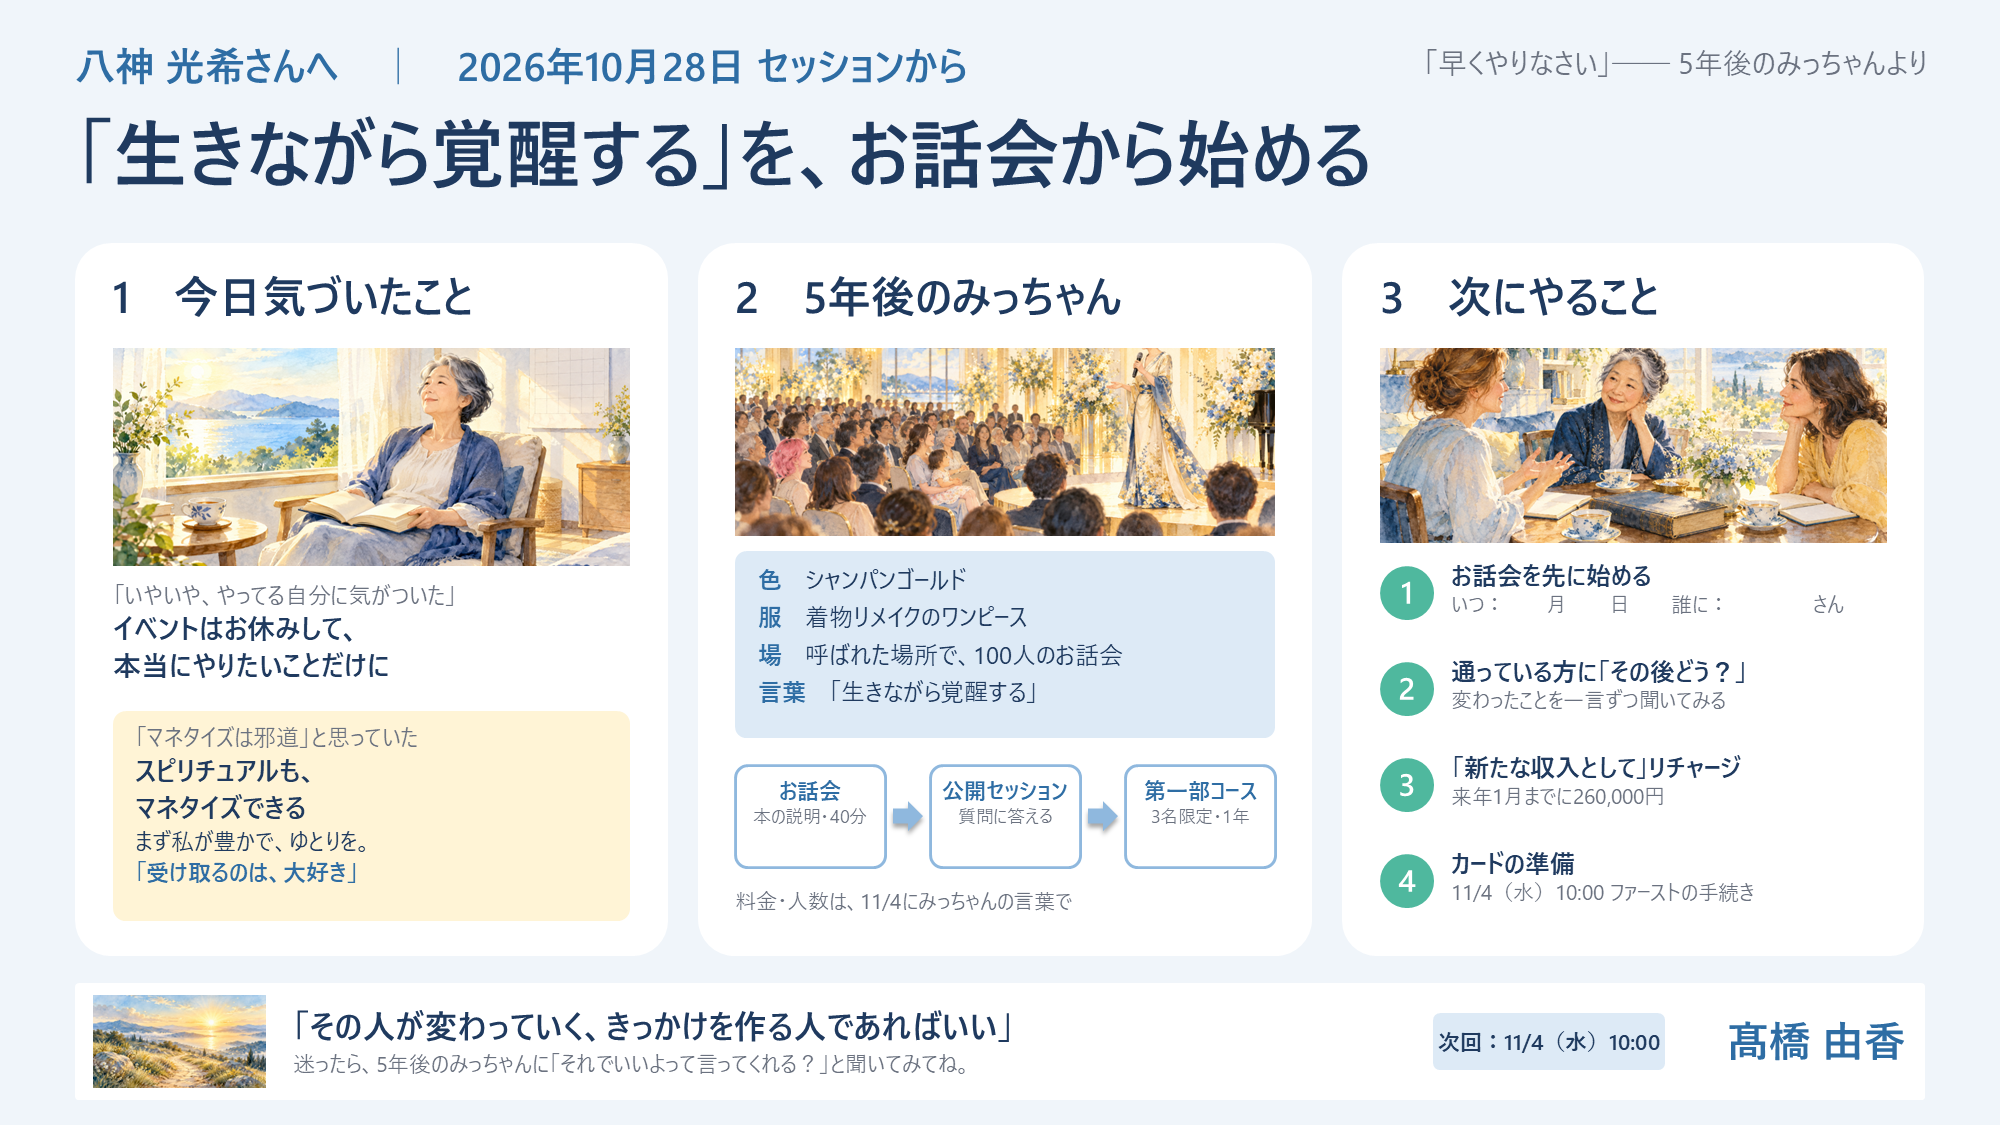
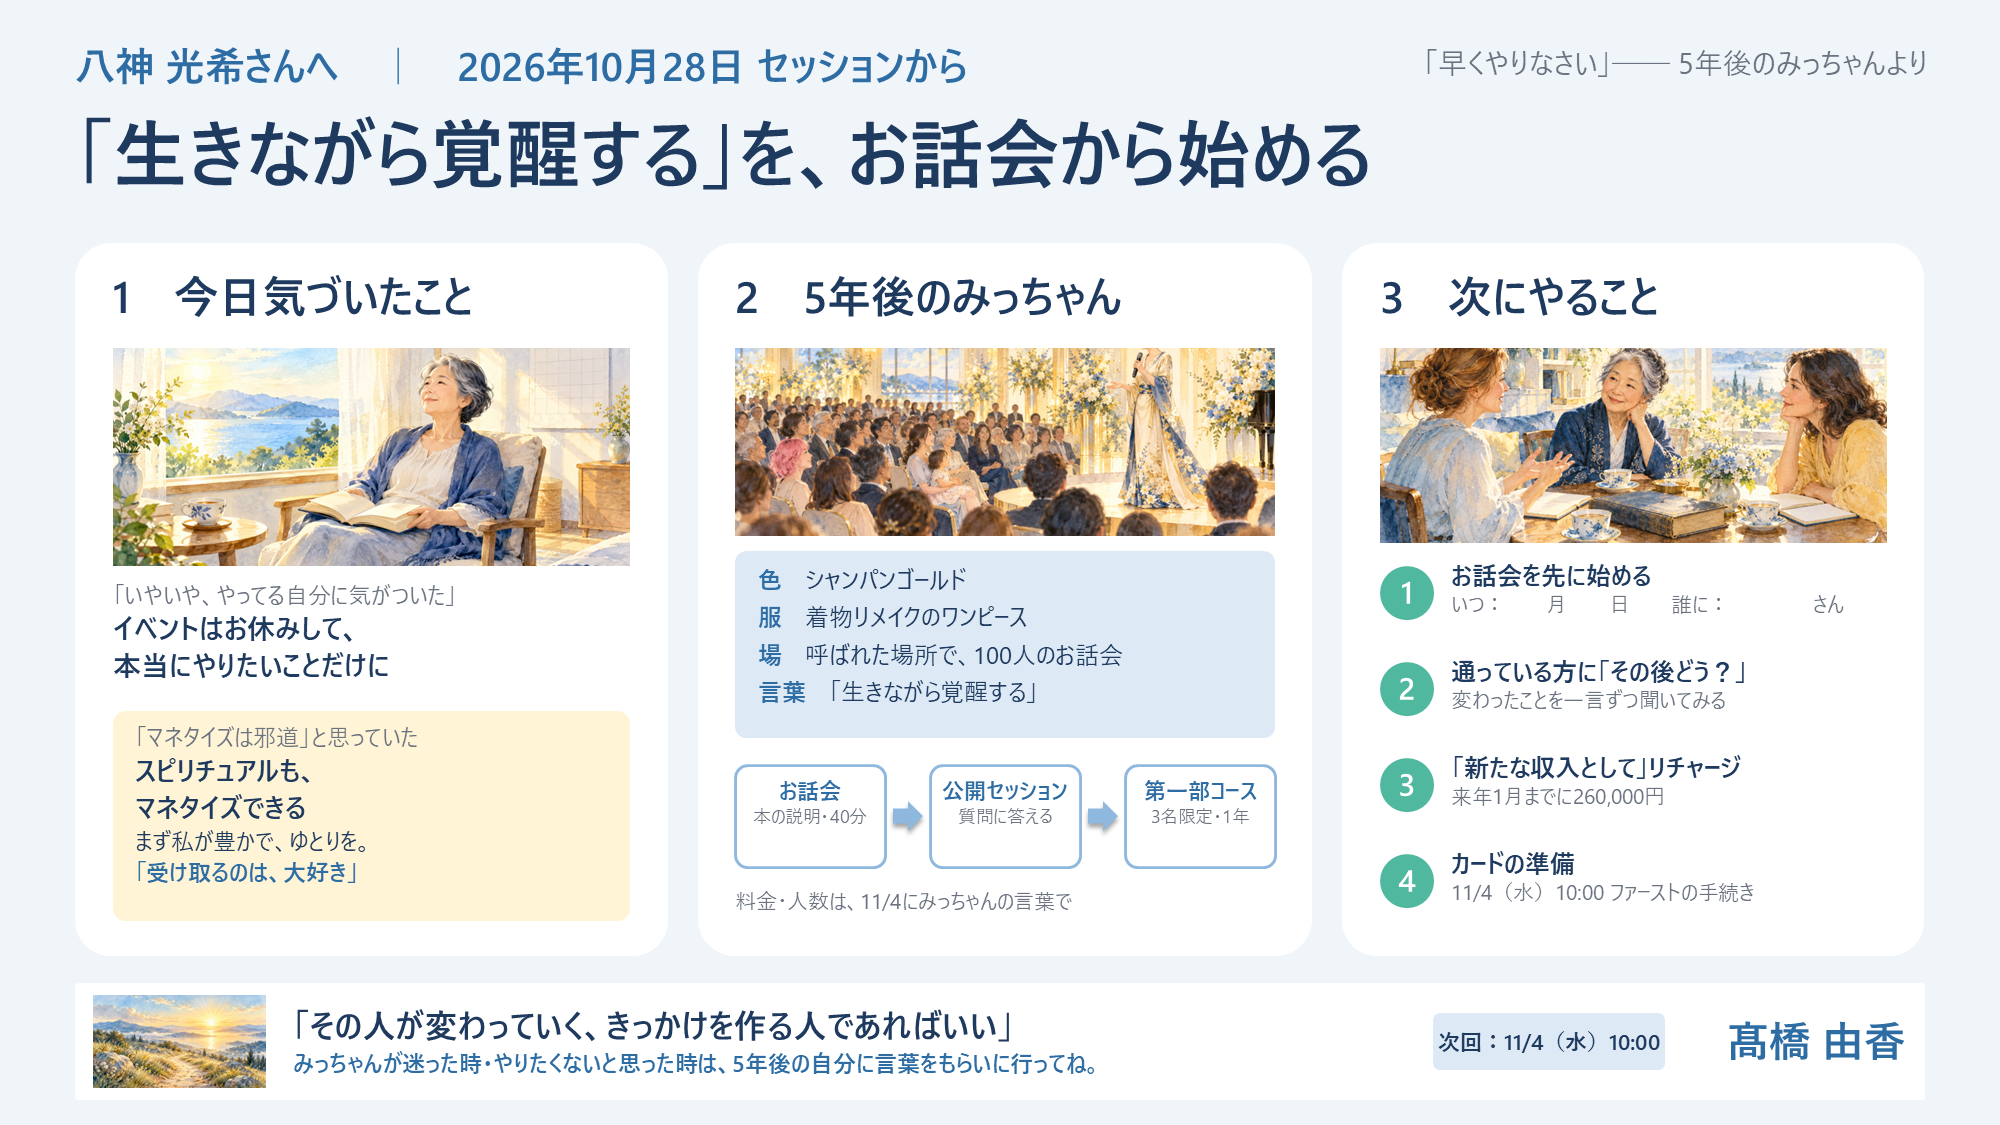
Auto-save 2026-10-28 18:42

Changed region(s): [[0.124, 0.9022, 0.558, 0.9644]]

diff --git a/20_Projects/海音_心体の調律/タマラ/八神光希さん/20261028_八神光希さん_セッションまとめ.md b/20_Projects/海音_心体の調律/タマラ/八神光希さん/20261028_八神光希さん_セッションまとめ.md
@@ -52,10 +52,10 @@
 
 - タマラ・ファーストの手続き（11月4日（水）10:00）に向けて、カードの準備をしておく
 - 「新たな収入として、来年1月ぐらいまでに260,000円ぐらい来てほしい」と、期限と金額を言葉にしてリチャージする
-- 迷ったときは、5年後（200%）の自分にとんで「それでいいよって言ってくれるかな？」と聞いてみる
+- 迷った時・やりたくないと思った時は、5年後（200%）の自分に言葉をもらいに行く（「それでいいよって言ってくれるかな？」）
 - 11月4日に、今日から何か変化があったかを聞かせてください
 
-今日決めたことを「きちんと整理しなくても」大丈夫です。迷ったら、シャンパンゴールドの5年後のみっちゃんに聞いてみてくださいね。
+今日決めたことを「きちんと整理しなくても」大丈夫です。みっちゃんが迷った時・やりたくないと思った時は、シャンパンゴールドの5年後の自分に言葉をもらいに行ってくださいね。
 11月4日、お会いできるのを楽しみにしています。
 
 （※「次回までのチャレンジ」の1つ目・2つ目は由香さんから出た提案に八神さんが「はい」と応じたもの。八神さんご本人が自分から決めた一歩は「お話会を先に始める」。お話会の開始時期は決めていないため、①では「今後やってみたいこと」に入れた。由香さんの判断で入れ替えてください）
